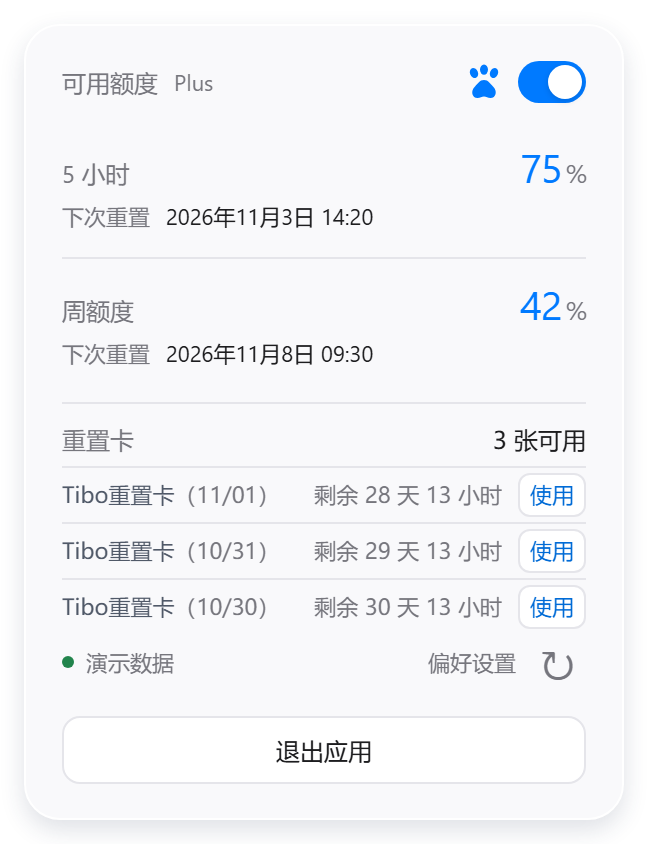
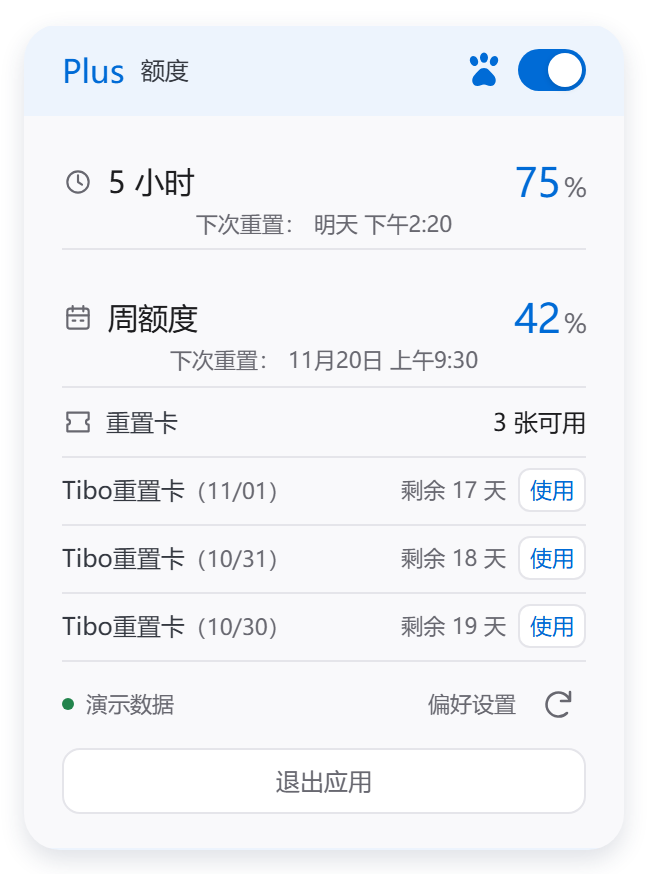
发布 v0.2.6 使用说明与界面截图

diff --git a/docs/发布说明.md b/docs/发布说明.md
@@ -1,54 +1,33 @@
 # 发布说明
 
-Codex 额度监控（CodexQuotaFloatCustom） · `0.2.5-custom.3`
+Codex 额度监控 v0.2.6 · Windows x64 公开测试版
 
-版本说明日期：2026-11-02。状态：公开测试版（Pre-release），标签 `v0.2.5-custom.3`。
+发布日期：2026-11-13。基于本地当前版本制作，前一公开版本为 v0.2.5-custom.3。
 
-## 本版内容
+## 本次更新
 
-- 提供简约卡片、百分比悬停、任务栏固定显示三种模式，移除旧的其他布局选项。
-- 额度页显示 5 小时及周额度、各自重置时刻、重置卡数量与剩余有效时间；偏好设置独立为第二页。
-- 任务栏文字紧邻隐藏图标箭头左侧，悬停查看额度，左键选择返回悬浮窗，右键选择退出应用。
-- 保留退出时的模式和偏好，可自行开启开机启动。
-- 增加与界面配套的宠物显示开关；开关先响应，后台再完成显示或隐藏，不阻塞点击反馈。
-- 重置卡列表最多显示三行，更多条目可滚动查看；支持向本机 Codex 发出真实使用请求，并显示返回结果。
+- 更新偏好设置下拉菜单，支持选择后关闭、失焦关闭和 Esc 关闭。
+- 调整重置时间居中显示、窗口样式行定位与重置卡区域排版。
+- 重置卡条目减少时，任务栏和百分比弹窗随内容收缩。
+- 保留简约卡片、百分比悬停、任务栏固定显示三种模式。
 
-## 安装方式
+## 下载与使用
 
-安装版为 `CodexQuotaFloatCustom-0.2.5-custom.3-Windows-x64-Setup.exe`。安装程序配置为当前 Windows 用户安装，不要求管理员权限，包含桌面快捷方式和卸载入口；安装结束不自动打开程序，也不默认开启开机启动。当前已完成编译，尚未实际执行安装验证。
+[安装版](https://github.com/Xucool/codex-quota-float-custom/releases/download/v0.2.6/CodexQuotaFloatCustom-0.2.6-Windows-x64-Setup.exe) · [便携版](https://github.com/Xucool/codex-quota-float-custom/releases/download/v0.2.6/CodexQuotaFloatCustom-0.2.6-Windows-x64-Portable.zip)
 
-另有 `CodexQuotaFloatCustom-0.2.5-custom.3-Windows-x64-Portable.zip`。完整解压后打开 `CodexQuotaFloatCustom.exe`，不能只复制主程序。两种程序及 `SHA256SUMS.txt` 均从 [本版本发行页](https://github.com/Xucool/codex-quota-float-custom/releases/tag/v0.2.5-custom.3) 下载。
+安装前先退出旧程序。便携版请完整解压到新目录。安装程序面向当前 Windows 用户，安装后不自动启动。需要官方 Codex 及自己的登录状态、.NET Framework 4.6.1 或以上，无需 Node.js。
 
-普通使用者无需 Node.js 或 SDK。系统需具备 .NET Framework 4.6.1 或更高版本，并安装官方 Codex、登录自己的 ChatGPT 账户。仅 API Key 登录可能没有可显示的套餐额度。
+## 验证与已知限制
 
-安装包未做代码签名，Windows 可能提示未知发布者；只在确认来源可信后运行，不需要关闭安全功能。
+- 69 项 Node 自动化测试通过。下拉菜单 30 轮交互、16 种界面组合、原生任务栏辅助程序自检和打包程序离线检查均通过。
+- 打包目录 78 个文件的大小和 SHA-256 已逐一核对。
+- 偶发悬停无法展开仍需观察，尚未确认彻底解决。
+- 未实际执行本次安装包，未在第二台电脑测试，未真实消耗重置卡。
+- Windows 11、ARM 及其他任务栏环境未验证。程序未签名。
+- 宠物开关依赖官方 Codex 已配置宠物。额度数据以官方接口返回为准。
 
-## 已完成的检查
+## 来源与发布范围
 
-- 64 项 Node 自动化测试通过。
-- 原生任务栏辅助程序自检及离线打包程序启动检查通过。
-- 便携目录与 ZIP 中的 78 个文件逐一核对，SHA-256 一致。
-- 已完成隐藏窗口界面检查，覆盖相关交互和异常状态；测试使用演示数据，不消耗真实重置卡。
-- 已确认本机 Codex 的接口定义包含重置卡读取相关数据及使用操作；软件按该接口发送请求。
-- Windows 10 x64 开发机环境已验证。
-- 已生成浅色总览、深色总览、百分比悬停、偏好设置和简约卡片的真实界面渲染图，使用演示数据。另有原生任务栏文字渲染预览，使用演示数据，不是整条任务栏截图。
+基于 [Leon-z7/codex-quota-float](https://github.com/Leon-z7/codex-quota-float)。维护者此前已确认取得修改与再分发授权。本仓库继续仅发布说明、演示截图与编译成品，不公开改版源码。保留 Electron 与 Chromium 随附许可。本软件不是 OpenAI 官方产品。
 
-本次校验未连接真实账号，也未进行真实耗卡操作；自动化测试和文件校验不能代替安装及真实服务实测。
-
-## 尚未验证与限制
-
-- 尚未实际执行本次 Setup 安装包的安装验证，也未在第二台电脑完成安装和完整使用实测。
-- 尚未真实消耗重置卡；接口定义和模拟测试不能代替真实兑换结果。使用会请求真实重置，可能消耗卡片，请谨慎操作。
-- Windows 11、ARM 和其他任务栏环境尚未验证，不能承诺任务栏嵌入兼容。
-- 宠物不是本软件内置资源，需要在 Codex 中配置；窗口识别或快捷键变化可能影响开关功能。
-- 额度与重置卡数据取决于 Codex 实际返回。网络、登录状态或官方接口变化可能导致暂时不可读取。
-
-## 来源与反馈
-
-原项目：[Leon-z7/codex-quota-float](https://github.com/Leon-z7/codex-quota-float)。本改版维护账号：[Xucool](https://github.com/Xucool)。
-
-发布仓库：[Xucool/codex-quota-float-custom](https://github.com/Xucool/codex-quota-float-custom)。问题反馈：[Issues](https://github.com/Xucool/codex-quota-float-custom/issues)。反馈时可提供 Windows 版本、软件版本、使用模式和错误提示，不要提交密码、Token、登录文件或真实账户截图。
-
-## 授权与发布范围
-
-维护者已确认获得原作者的修改与再分发授权。本次公开发布说明、截图及编译后的程序，当前不公开改版源码。本说明不新增或替代原项目及第三方依赖许可，也不表示全部源码可另行公开。本软件不是 OpenAI 官方产品。
+[反馈问题](https://github.com/Xucool/codex-quota-float-custom/issues)时请勿上传账号、Token 或真实账户截图。

diff --git a/README.md b/README.md
@@ -2,9 +2,9 @@
 
 不用反复打开额度页，在桌面或任务栏就能查看 Codex 的 5 小时与周额度、下次重置时间，以及重置卡的剩余有效时间。
 
-版本 `0.2.5-custom.3` · Windows x64 · 公开测试版（Pre-release） · 第三方桌面工具
+版本 `0.2.6` · Windows x64 · 公开测试版（Pre-release） · 第三方桌面工具
 
-[下载 Windows x64 安装版](https://github.com/Xucool/codex-quota-float-custom/releases/download/v0.2.5-custom.3/CodexQuotaFloatCustom-0.2.5-custom.3-Windows-x64-Setup.exe) · [下载便携版](https://github.com/Xucool/codex-quota-float-custom/releases/download/v0.2.5-custom.3/CodexQuotaFloatCustom-0.2.5-custom.3-Windows-x64-Portable.zip) · [SHA-256 校验文件](https://github.com/Xucool/codex-quota-float-custom/releases/download/v0.2.5-custom.3/SHA256SUMS.txt)
+[下载 Windows x64 安装版](https://github.com/Xucool/codex-quota-float-custom/releases/download/v0.2.6/CodexQuotaFloatCustom-0.2.6-Windows-x64-Setup.exe) · [下载便携版](https://github.com/Xucool/codex-quota-float-custom/releases/download/v0.2.6/CodexQuotaFloatCustom-0.2.6-Windows-x64-Portable.zip) · [SHA-256 校验文件](https://github.com/Xucool/codex-quota-float-custom/releases/download/v0.2.6/SHA256SUMS.txt)
 
 > 这是公开测试版，已知验证范围见下文。以下界面预览均使用演示数据。
 
@@ -49,10 +49,10 @@
 
 ## 安装与开始使用
 
-从本页顶部或 [本版本发行页](https://github.com/Xucool/codex-quota-float-custom/releases/tag/v0.2.5-custom.3) 选择一种下载：
+从本页顶部或 [本版本发行页](https://github.com/Xucool/codex-quota-float-custom/releases/tag/v0.2.6) 选择一种下载：
 
-- 安装版：`CodexQuotaFloatCustom-0.2.5-custom.3-Windows-x64-Setup.exe`
-- 便携版：`CodexQuotaFloatCustom-0.2.5-custom.3-Windows-x64-Portable.zip`
+- 安装版：`CodexQuotaFloatCustom-0.2.6-Windows-x64-Setup.exe`
+- 便携版：`CodexQuotaFloatCustom-0.2.6-Windows-x64-Portable.zip`
 
 不要把 GitHub 自动生成的源码压缩包当成安装包。
 
@@ -117,7 +117,7 @@
 
 ## 版本与反馈
 
-当前版本：`0.2.5-custom.3`，说明日期：2026-11-02。变更与已知限制见 [发布说明](docs/发布说明.md)。
+当前版本：`0.2.6`，说明日期：2026-11-13。变更与已知限制见 [发布说明](docs/发布说明.md)。
 
 维护账号：[Xucool](https://github.com/Xucool) · [发布仓库](https://github.com/Xucool/codex-quota-float-custom) · [问题反馈（Issues）](https://github.com/Xucool/codex-quota-float-custom/issues)
 
@@ -128,6 +128,41 @@
 本改版基于 [Leon-z7/codex-quota-float](https://github.com/Leon-z7/codex-quota-float)，应用内部名称为 `CodexQuotaFloatCustom`。感谢原作者的项目基础。本工具不是 OpenAI 官方产品。
 
 维护者已确认获得原作者的修改与再分发授权。本仓库发布说明、截图及编译后的安装包与便携包，当前不公开改版源码；此授权说明不等于对全部源码授予新的许可，也不替代原项目及第三方依赖的许可条款。详见 [发布前检查](docs/发布前检查.md)。
+
+## 维护者构建
+
+以下用于维护者本地源码项目，公开仓库不包含对应的改版源码与构建脚本，普通使用者无需执行。需要 Windows x64、Node.js 22.12+，以及能够构建 .NET Framework 4.6.1 目标项目的 .NET SDK。
+
+```powershell
+cd desktop
+npm ci
+npm test
+node ..\scripts\validate.mjs
+npm run release:win
+```
+
+`package:win` 仅生成应用目录：`desktop/release/0.2.6/CodexQuotaFloatCustom-win32-x64`。目录包含 Electron 必需运行文件与现用 `TaskbarHost`，不能只复制主程序。
+
+`release:win` 从干净目录独立生成安装版和便携版，无需先运行 `package:win`。需要固定版本的 Electron 本地缓存，以及 Inno Setup 编译器：
+
+- Electron 缓存可通过 `ELECTRON_ZIP_DIR` 指定，也可使用脚本识别到的本机缓存；缺少缓存时停止，不反复下载。
+- Inno Setup 可通过 `QUOTA_ISCC` 指定 `ISCC.exe`，默认位置为 `build-cache/release-tools/inno-7.1.1/ISCC.exe`。
+
+最终产物位于 `desktop/release/publish/`：
+
+- `CodexQuotaFloatCustom-0.2.6-Windows-x64-Setup.exe`
+- `CodexQuotaFloatCustom-0.2.6-Windows-x64-Portable.zip`
+- `SHA256SUMS.txt`：最终发布文件的校验值。
+- `release-manifest.json`：本地打包清单。
+
+安装包不应从个人正在使用的旧目录直接制作。`package:win` 另支持用 `QUOTA_BUILD_TMP` 指定暂存目录、`QUOTA_PACKAGE_OUT` 指定应用目录输出位置。
+
+## 本次更新
+
+- 更新偏好设置下拉菜单，调整重置时间居中、窗口样式行及重置卡弹窗布局。
+- 偶发悬停无法展开仍需继续观察，尚不宣称彻底解决。
+- 本次通过 69 项自动化测试；未执行安装包安装实测及真实重置卡消耗。
+- 下方截图已按本版重新生成，均为演示数据；任务栏文字预览沿用上版。
 
 ## 简要历史
 

diff --git a/docs/发布前检查.md b/docs/发布前检查.md
@@ -1,43 +1,5 @@
-# 发布前检查
+# v0.2.6 发布核对
 
-Codex 额度监控（CodexQuotaFloatCustom） · `0.2.5-custom.3`
+2026-11-13：本版沿用既有发布范围，只发布文档、演示截图与编译成品。使用独立临时目录从当前源码打包，不替换正在使用的程序。
 
-此表用于本次公开测试版发布核对，说明日期为 2026-11-02。发布范围为说明、截图及编译后的程序，当前不公开改版源码。未完成的实机验证仍保持未勾选。
-
-## 必须先完成
-
-- [x] 维护者确认已获得 [原项目](https://github.com/Leon-z7/codex-quota-float) 作者的修改与再分发授权；此记录基于维护者确认，不是独立许可证查验。不自行新增 MIT 许可，不将其扩大解释为全部源码公开授权。
-- [x] 维护者同意在 `Xucool/codex-quota-float-custom` 发布说明、截图和编译后的程序；当前不公开改版源码。
-- [x] README、使用说明和发布说明已改为公开测试版状态，使用固定版本标签 `v0.2.5-custom.3` 的下载地址和仓库 Issues 入口。
-- [ ] 保留 Electron 和其他依赖随附的许可证及第三方声明；依赖许可不等于获得原应用源码的再分发许可。
-
-## 发布包与源码
-
-- [ ] 从当前源码制作干净发布目录，不压缩个人正在使用的旧目录，不修改原安装版。
-- [ ] 包含当前主程序、Electron 必需运行文件、现用 `TaskbarHost`、图标和说明；不包含旧 `TaskbarComponent`、旧 DeskBand 组件或注册脚本。
-- [ ] 排除个人登录文件、Token、API Key、`.env`、用户配置、账户日志、真实账户截图、备份、缓存和测试产物。
-- [ ] 核对实际上传的文档、截图、二进制及仓库历史，确认未意外公开本地改版源码或个人资料；不能只检查最终压缩包。
-- [ ] README 提供产品简介、功能亮点、界面截图、安装使用方法、常见问题和已知限制；截图只使用演示数据，不附带真实账户信息。
-- [ ] 确认程序名称与版本一致，安装包、说明和仓库均为 `0.2.5-custom.3`。
-- [ ] 为最终安装包提供 SHA-256 校验值，且校验值对应最终上传文件。
-
-## 安装与交互
-
-- [ ] 检查 `Setup.exe` 为当前用户安装，不要求管理员权限，能创建正确的桌面快捷方式和卸载入口。
-- [ ] 检查安装结束不自动运行软件、不默认注册开机启动。
-- [ ] 检查更新不会覆盖个人偏好；需要替换运行文件时先让使用者退出软件。
-- [ ] 检查卸载能结束本应用的任务栏显示并恢复任务栏，不删除 Codex 账户资料。
-- [ ] 在另一台或干净的 Windows 10 x64 环境完成安装、连接、三模式切换、退出和再次启动检查。当前尚未完成第二台机器实测。
-- [ ] 不为验证而使用真实重置卡；如确需真实消耗测试，须另获账户所有者明确同意。
-
-## 必须如实说明
-
-- [ ] 普通使用者不需要 Node.js 或 SDK，但需要 .NET Framework 4.6.1+、官方 Codex 以及自己的 ChatGPT 登录状态。
-- [ ] 只声明 Windows 10 x64 开发机已验证；Windows 11、ARM 及其他任务栏环境尚未验证，不承诺任务栏兼容。
-- [ ] 宠物功能依赖对方 Codex 已配置宠物和相应快捷键，不宣传为内置宠物。
-- [ ] 重置卡按钮发送真实请求；目前尚未进行真实消耗实测。
-- [ ] 未签名程序可能出现未知发布者提示；不要求使用者关闭系统安全功能。
-
-## 当前证据边界
-
-当前开发记录包含 64 项 Node 自动化测试、隐藏窗口界面检查、原生辅助程序自检、打包程序离线检查，以及发布目录和 ZIP 内 78 个文件的逐一 SHA-256 校验。另已确认本机 Codex 接口定义存在重置卡操作。这些检查不等于第二台电脑安装成功，也不等于真实消耗重置卡成功。发布时不得把尚未完成的验证写成已通过。
+已通过 69 项自动化测试。安装实测、第二台机器测试和真实重置卡消耗测试未执行。完整验证结果见发布说明。

diff --git a/docs/使用说明.md b/docs/使用说明.md
@@ -1,8 +1,8 @@
 # 使用说明
 
-Codex 额度监控（CodexQuotaFloatCustom） · `0.2.5-custom.3`
+Codex 额度监控（CodexQuotaFloatCustom） · `0.2.6`
 
-当前为公开测试版（Pre-release）。说明日期：2026-11-02。
+当前为公开测试版（Pre-release）。说明日期：2026-11-13。
 
 ## 使用前
 
@@ -12,7 +12,7 @@ Codex 额度监控（CodexQuotaFloatCustom） · `0.2.5-custom.3`
 
 ## 安装、打开与卸载
 
-1. 从 [本版本发行页](https://github.com/Xucool/codex-quota-float-custom/releases/tag/v0.2.5-custom.3) 下载文件名以 `-Setup.exe` 结尾的安装版，确认来源可信后运行，按提示为当前用户安装，不需要管理员权限。
+1. 从 [本版本发行页](https://github.com/Xucool/codex-quota-float-custom/releases/tag/v0.2.6) 下载文件名以 `-Setup.exe` 结尾的安装版，确认来源可信后运行，按提示为当前用户安装，不需要管理员权限。
 2. 安装完成后，使用桌面的“Codex 额度监控”快捷方式打开。安装程序不会自动运行软件，也不会默认开启开机启动。
 3. 第一次打开时等待连接本机 Codex。需要开机启动时，在偏好设置中主动开启。
 4. 卸载前先在软件中选择“退出应用”，再通过 Windows 的“应用和功能”卸载。
